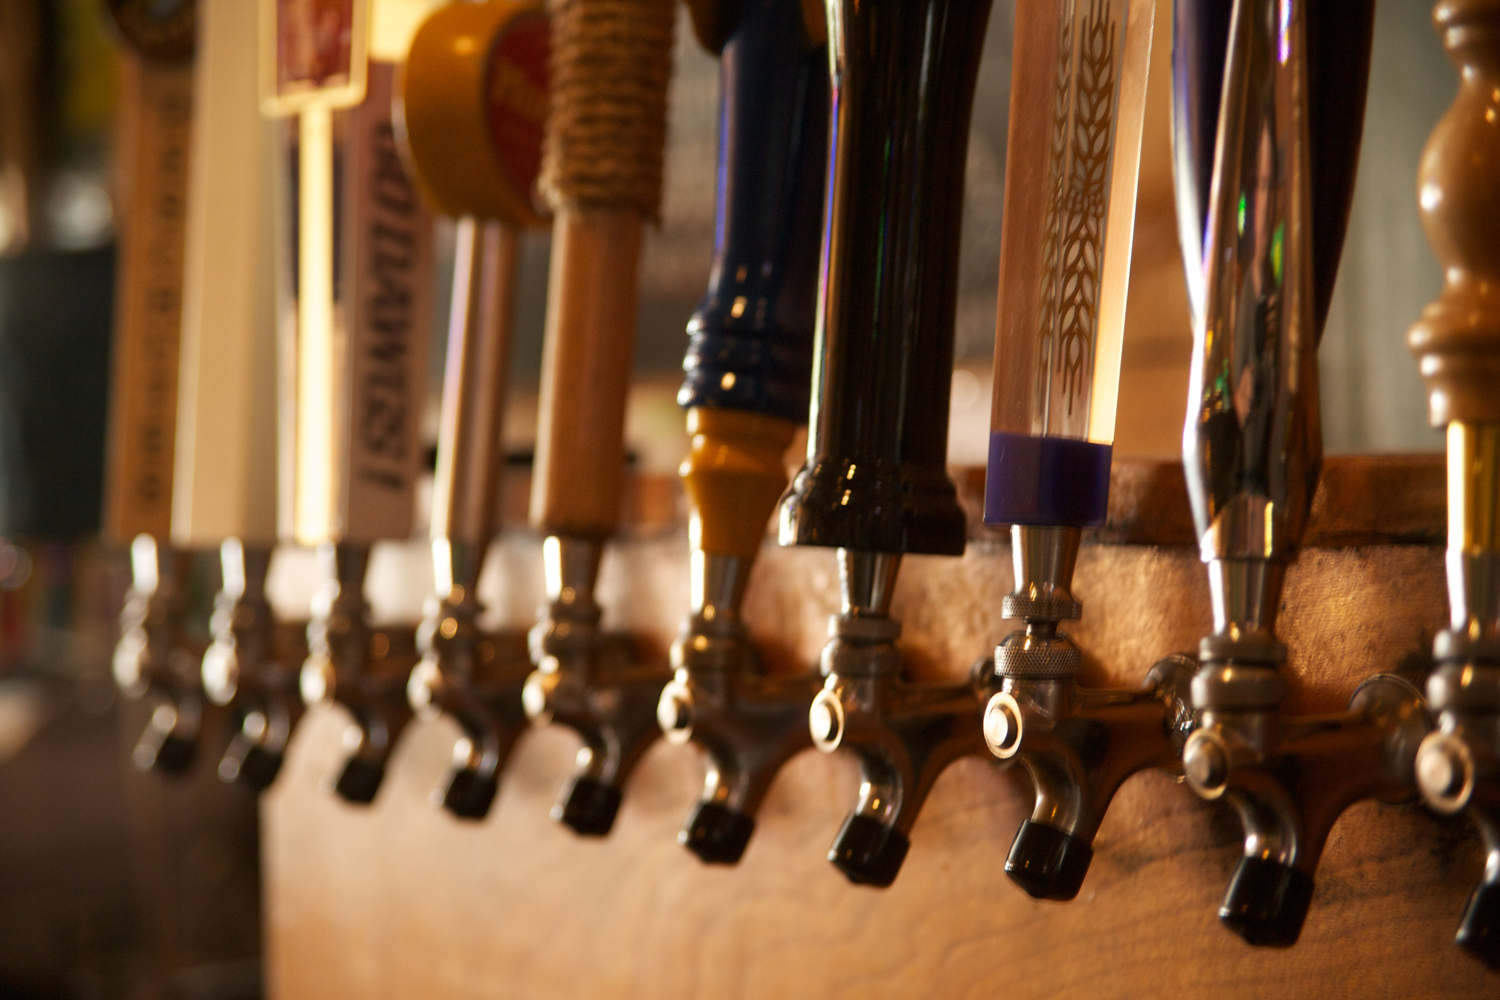
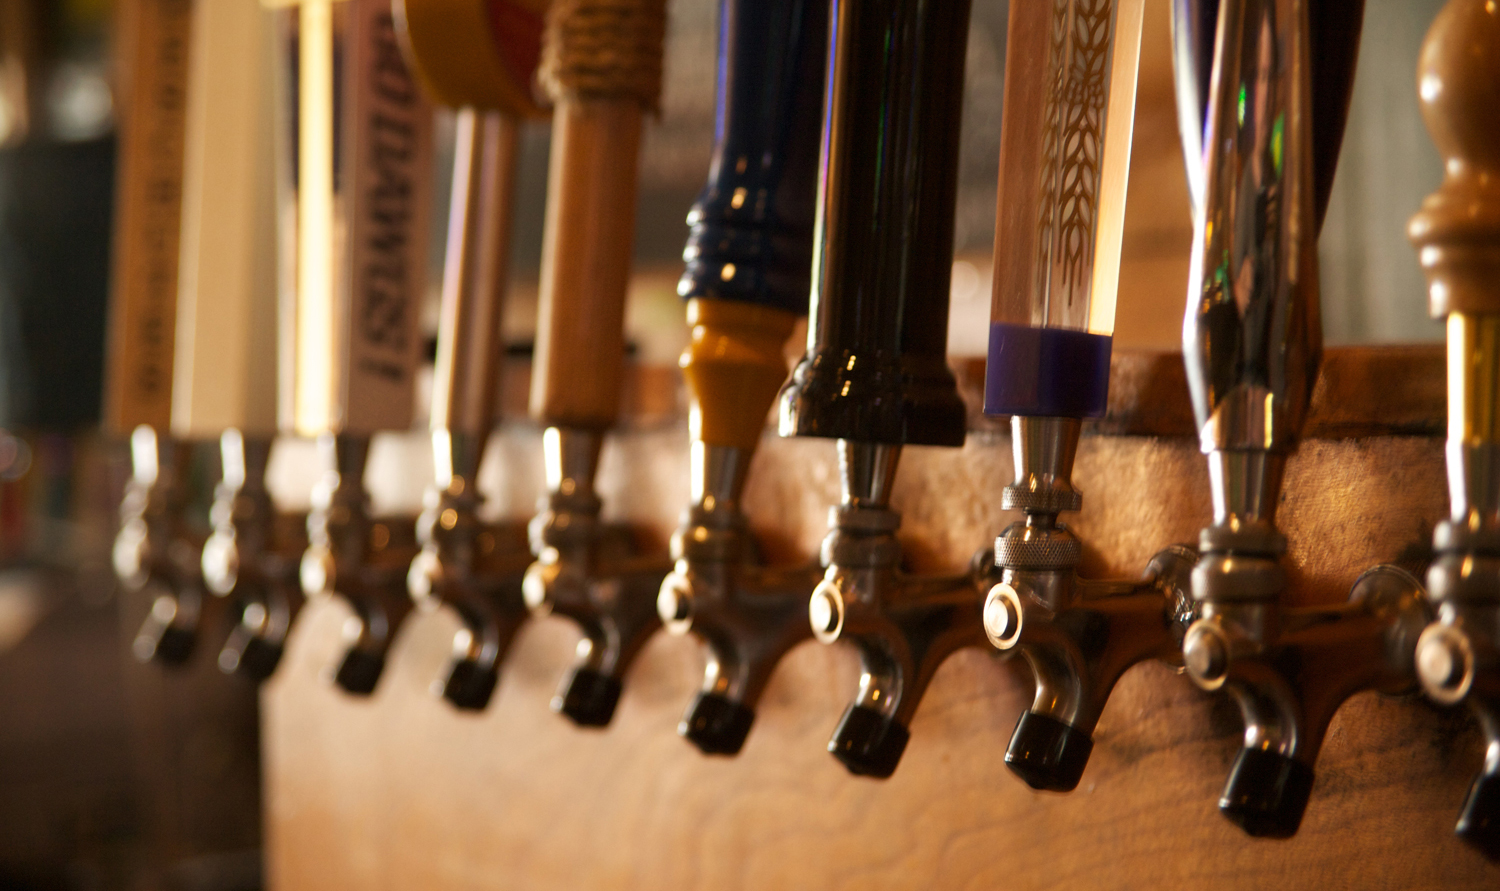
changed images, removed some images

diff --git a/public/css/app.css b/public/css/app.css
@@ -24,7 +24,7 @@ p {
 
 .main-index {
   width: 100%;
-  background-image: url(/images/beerTaps.jpg);
+  background-image: url(/images/HomePic.jpg);
   background-size: cover;
   background-repeat: no-repeat;
   margin: 0 auto;
@@ -48,6 +48,10 @@ p {
   text-transform: uppercase;
 }
 
+.pageTitle:hover {
+  color: gold;
+}
+
 .nav {
   position: relative;
   float: right;
@@ -68,11 +72,11 @@ p {
   color: white;
   text-decoration: none;
   font-family: 'Raleway', sans-serif;
-  font-weight: 400;
+  font-weight: 600;
 }
 
 .underline:hover {
-  color: #A9C7CF;
+  color: gold;
 }
 
 .underline:after {
@@ -86,7 +90,7 @@ p {
 }
 .underline:hover:after {
   width: 100%;
-  background: #A9C7CF;
+  background: gold;
 }
 
 #icons {
@@ -231,7 +235,7 @@ p {
 
 .main-history {
   width: 100%;
-  background-image: url(/images/history.jpg);
+  background-image: url(/images/beerPour.jpg);
   background-repeat: no-repeat;
   margin: 0 auto;
   background-size: cover;
@@ -487,7 +491,7 @@ p {
 /* ABOUT PAGE */
 .main-about {
   width: 100%;
-  background-image: url(/images/beerWall.jpg);
+  background-image: url(/images/about.jpg);
   background-size: cover;
   background-repeat: no-repeat;
   margin: 0 auto;
@@ -619,7 +623,7 @@ p {
 
 .main-404 {
   width: 100%;
-  background-image: url(/images/empty.png);
+  background-image: url(/images/empty.jpg);
   background-size: cover;
   background-repeat: no-repeat;
   margin: 0 auto;
@@ -651,7 +655,7 @@ p {
 
 .main-browse {
   width: 100%;
-  background-image: url(/images/taps.jpg);
+  background-image: url(/images/randomBeer.jpg);
   background-repeat: no-repeat;
   margin: 0 auto;
   background-size: cover;
